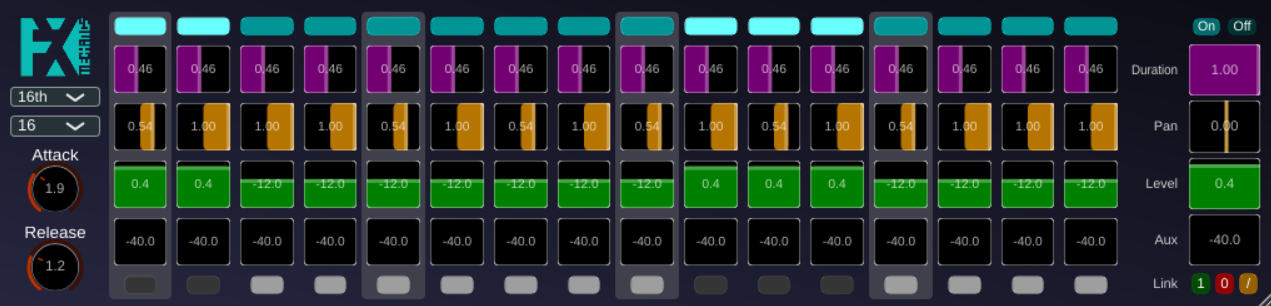
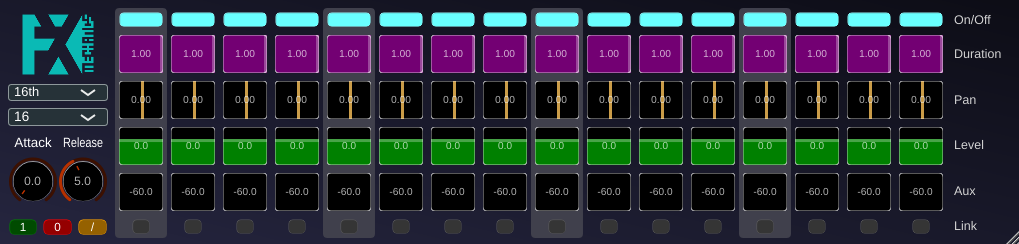
Add randomization function

diff --git a/Source/PluginEditor.cpp b/Source/PluginEditor.cpp
@@ -246,6 +246,8 @@ RhythmicGateAudioProcessorEditor::RhythmicGateAudioProcessorEditor (RhythmicGate
     setupLabel(linkLabel);
 
     addAndMakeVisible(logo);
+    // Add the randomization callback when the logo is clicked
+    logo.onClick = [this] { randomizeParameters(); };
 
     // Set initial visibility of step components
     updateStepComponentVisibility();
@@ -383,5 +385,32 @@ void RhythmicGateAudioProcessorEditor::updateStepAccents()
                 shouldBeAccented = true;
         }
         stepComponents[i]->setAccented(shouldBeAccented);
+    }
+}
+
+void RhythmicGateAudioProcessorEditor::randomizeParameters()
+{
+    juce::Random random;
+
+    // We iterate through all parameters in the APVTS
+    for (auto* param : audioProcessor.getParameters())
+    {
+        // We only want to randomize per-step controls, not global ones like STEPS, ATTACK, or RELEASE.
+        // We also exclude the LINK parameters, which are for UI logic.
+        // To get the parameter ID, we must safely cast the base AudioProcessorParameter
+        // to the RangedAudioParameter that it actually is.
+        if (auto* rangedParam = dynamic_cast<juce::RangedAudioParameter*>(param))
+        {
+            const auto& paramID = rangedParam->getParameterID();
+
+            if (!paramID.startsWith("METRIC") &&
+                !paramID.startsWith("ATTACK") &&
+                !paramID.startsWith("RELEASE") &&
+                !paramID.contains("LINK"))
+            {
+                // Set the parameter to a random value within its normalized range (0.0 to 1.0).
+                param->setValueNotifyingHost(random.nextFloat());
+            }
+        }
     }
 }

diff --git a/Source/FxmeLogo.h b/Source/FxmeLogo.h
@@ -25,8 +25,11 @@ public:
 
     void paint (juce::Graphics&) override;
     void resized() override;
+    void mouseDown (const juce::MouseEvent& event) override;
 
     bool drawTitle;
+
+    std::function<void()> onClick;
 
 private:
     juce::Image logo;

diff --git a/Source/PluginEditor.h b/Source/PluginEditor.h
@@ -99,6 +99,7 @@ public:
     // UI update function
     void updateStepComponentVisibility();
     void updateStepAccents();
+    void randomizeParameters();
 
 private:
     RhythmicGateAudioProcessor& audioProcessor;

diff --git a/Source/FxmeLogo.cpp b/Source/FxmeLogo.cpp
@@ -63,3 +63,11 @@ void FxmeLogo::resized()
     // components that your component contains..
 
 }
+
+void FxmeLogo::mouseDown(const juce::MouseEvent& event)
+{
+    if (onClick)
+    {
+        onClick();
+    }
+}
